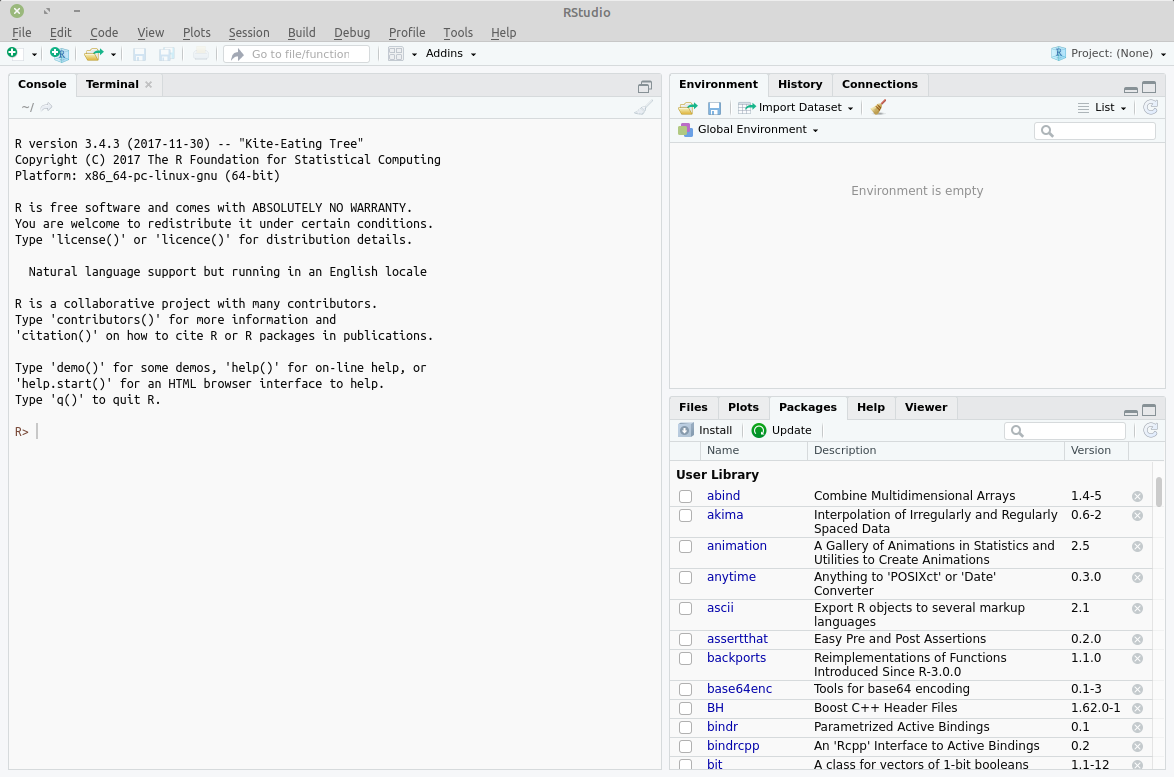
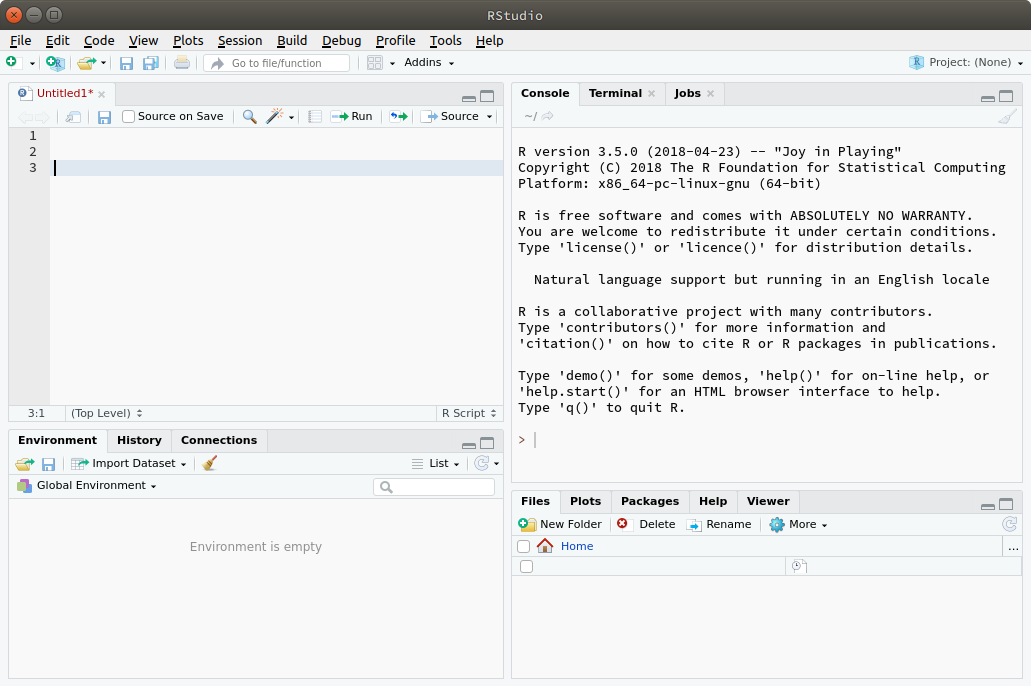
Update installation guide

diff --git a/install_guide.html b/install_guide.html
@@ -234,7 +234,7 @@ $(document).ready(function () {
 <div id="step-1-install-r" class="section level3">
 <h3>Step 1: Install R</h3>
 <ul>
-<li><p>Download the R installer from: <a href="https://cloud.r-project.org/" class="uri">https://cloud.r-project.org/</a>. The latest version of R is 3.4.3</p></li>
+<li><p>Download the R installer from: <a href="https://cloud.r-project.org/" class="uri">https://cloud.r-project.org/</a>. The latest version of R is 3.5.0</p></li>
 <li><p>I recommend you install a precompiled binary distribution for your operating system.</p></li>
 </ul>
 <p><br></p>
@@ -244,7 +244,7 @@ $(document).ready(function () {
 </div>
 <p><br></p>
 <ul>
-<li><p>For Mac and Windows users, just run the installer: <code>R-3.4.3.pkg</code> and <code>R-3.4.3-win.exe</code>. Default settings are fine.</p></li>
+<li><p>For Mac and Windows users, just run the installer: <code>R-3.5.0.pkg</code> and <code>R-3.5.0-win.exe</code>. Default settings are fine.</p></li>
 <li><p>For Linux users, you might want to consult this tutorial (<a href="https://www.digitalocean.com/community/tutorials/how-to-install-r-on-ubuntu-16-04-2" class="uri">https://www.digitalocean.com/community/tutorials/how-to-install-r-on-ubuntu-16-04-2</a>). In case you are using other Linux distros, there’s official installation guide on the R Project website.</p></li>
 </ul>
 <p><br></p>
